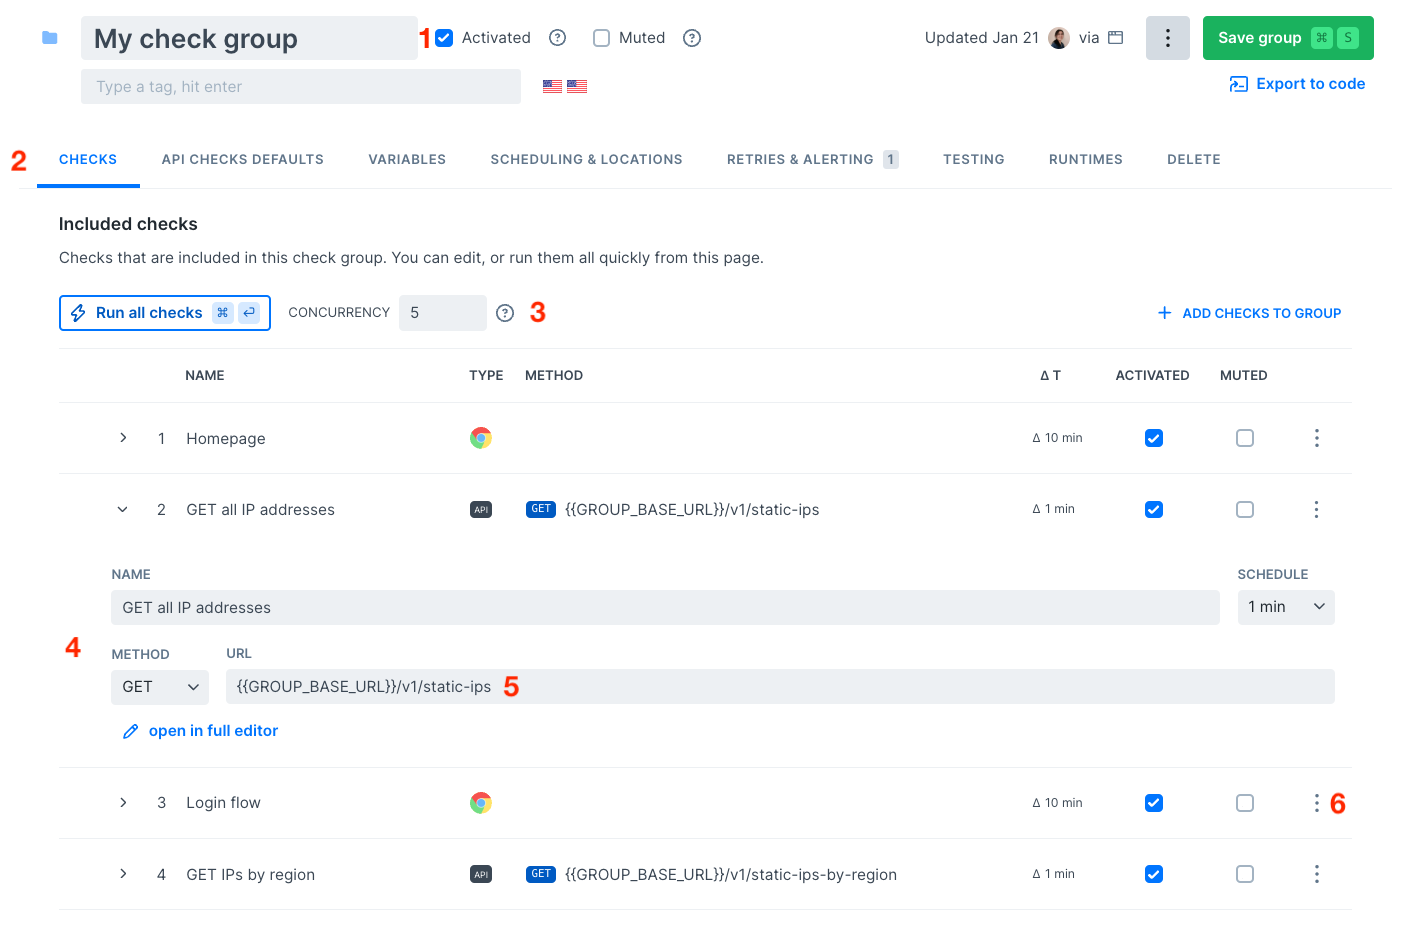
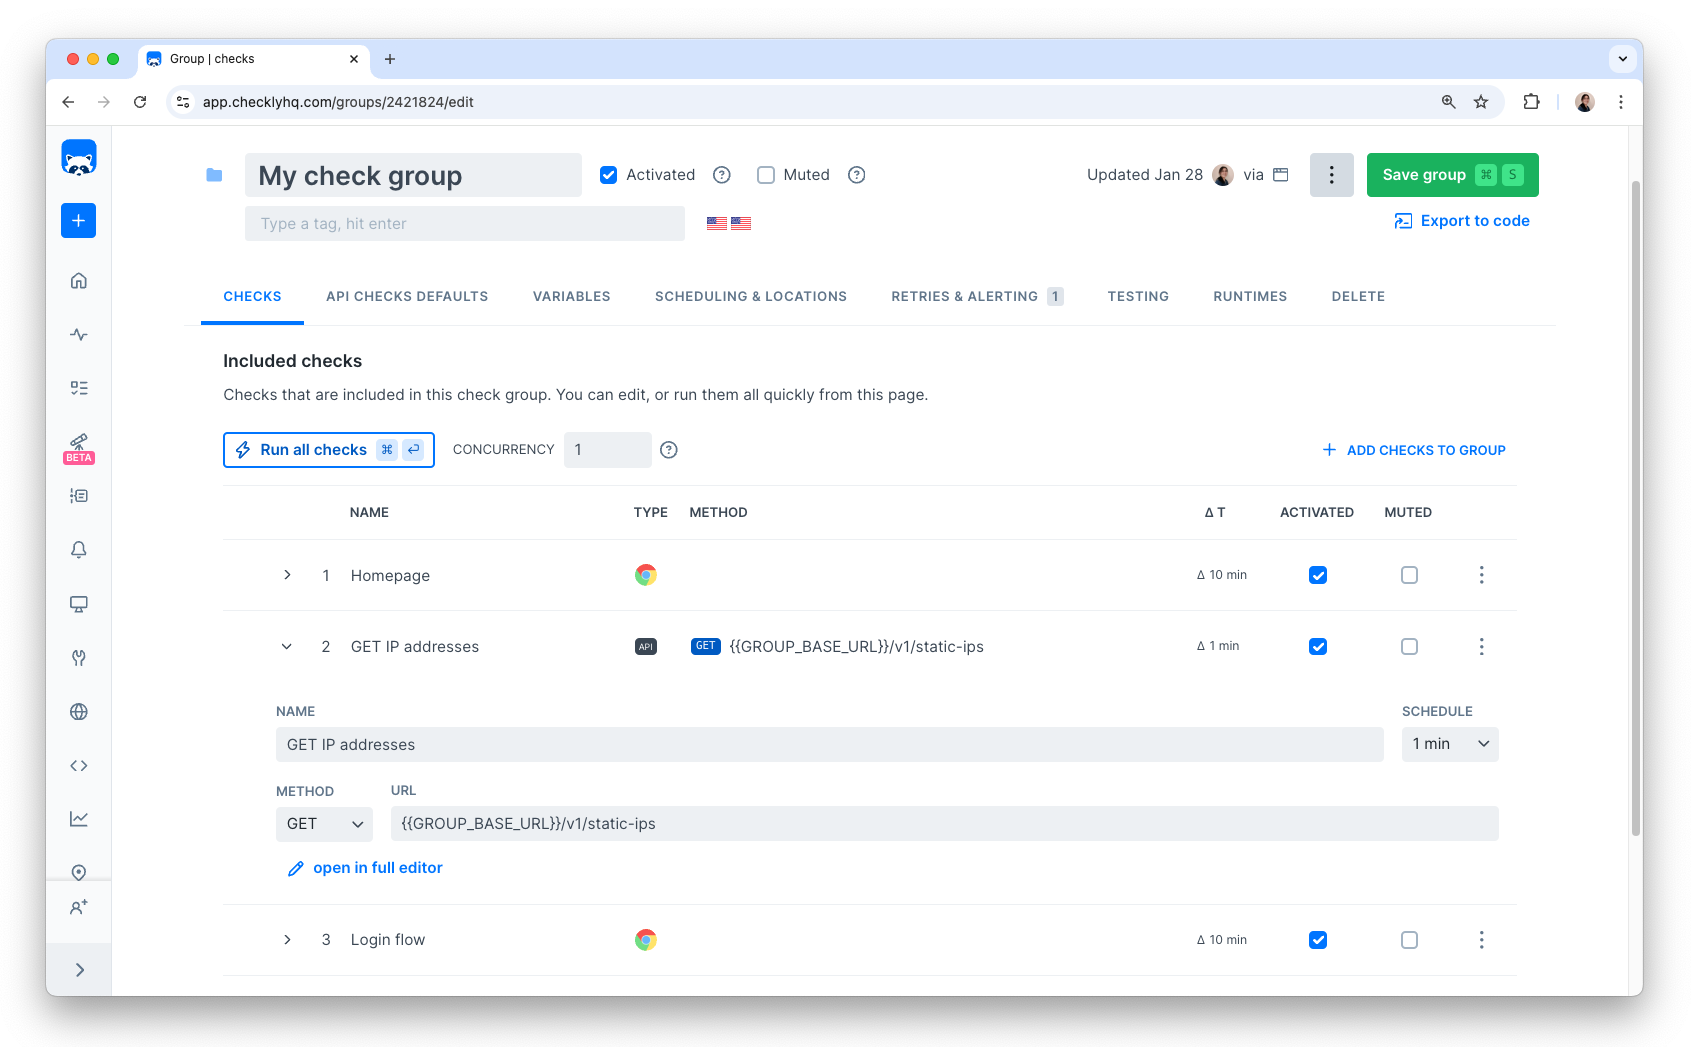
feat: remove redundant info and add more images

diff --git a/site/content/docs/groups/_index.md b/site/content/docs/groups/_index.md
@@ -16,6 +16,8 @@ aliases:
 Groups allow you to organize your checks and centralize settings like base URLs, headers, variables and other properties
 a collection of checks can share. 
 
+![Check group screenshot](/docs/images/groups/group-in-dashboard.png)
+
 Example use cases for groups are organizing your checks around:
 
 - A common URL endpoint
@@ -25,27 +27,12 @@ Example use cases for groups are organizing your checks around:
 
 > Group-level configurations, such as the runtime, activated & muted state, tags, and alert channels, will override check-level configurations. 
 
-## Key features
-
-The screenshot below gives a quick overview of the groups' key features.
-
-![Check group editor screenshot](/docs/images/groups/group-editor.png)
-
-1. **Activate and mute** all checks in a group
-2. Configure **shared settings** for all checks in the group
-    1. API check defaults like headers, assertions and setup & teardown scripts
-    2. Environment variables
-    3. Data center locations
-    4. Alert setting and alert channels
-3. **Run all checks in one go** with a configurable concurrency.
-4. Tweak checks in the inline "mini editor" to **quickly build up a group of similar checks**
-5. Use a **common base URL** for your API checks
-6. **Manage individual checks**, including viewing, editing, and duplicating checks
-
 > [!WARNING]
 > Alert settings being controlled at group level means that a check that is part of a group that has no connected alert channels *will not alert*.
 
 ## Creating a check group
+
+![Check group editor screenshot](/docs/images/groups/group-editor.png)
 
 ### Name and tags
 Pick a meaningful name for your group. A meaningful name will not only help you and others identify your group within Checkly, but it will help provide a better alerting experience if checks in this group fall into an alert state. Tags can relate your groups together, they also determine which checks are shown on your public [dashboards](/docs/dashboards/).  
@@ -56,7 +43,7 @@ Add new or existing checks to this group. If you add an existing check, the grou
 For example, if you create a check that runs in `eu-west-1` but then add it to a group running in `us-east-1`, then the group settings will take precedence and overwrite the individual check locations. 
 
 ### API checks defaults
-You can set [API check defaults](/docs/groups/api-check-defaults/), including request information, [assertions](/docs/api-checks/assertions/), and [setup & teardown scripts](/docs/api-checks/setup-teardown-scripts/), to help manage API checks.
+You can set [API check defaults](/docs/groups/api-check-defaults/), including a common base URL, request information, [assertions](/docs/api-checks/assertions/), and [setup & teardown scripts](/docs/api-checks/setup-teardown-scripts/), to help manage API checks.
 
 ### Variables
 For configuration information commonly used by checks in this group, create [group environment variables and secrets](/docs/groups/variables/). When checks are scheduled, these will be merged with environment variables at the check and global levels.
@@ -73,7 +60,7 @@ Select your preferred [retry strategy](/docs/alerting-and-retries/retries/) for 
 You can configure [alert channels](/docs/alerting-and-retries/alert-channels/#managing-alert-channels) for checks in this group. If we don’t provide your preferred alert method, use [webhooks](/docs/alerting-and-retries/webhooks/) to configure your alert flow. Like with retries, this will override alert settings for checks in this group.
 
 > [!WARNING]
-> Make sure to select an alert channel, otherwise checks in this group **will not alert**.
+> Make sure to select an alert channel, otherwise checks in this group *will not alert*.
 
 > Note that some alerting channels, like [SMS](/docs/alerting-and-retries/sms-delivery/) and [Phone call](/docs/alerting-and-retries/phone-calls/) are only available on our [Team and Enterprise plans](/pricing/#features)
 
